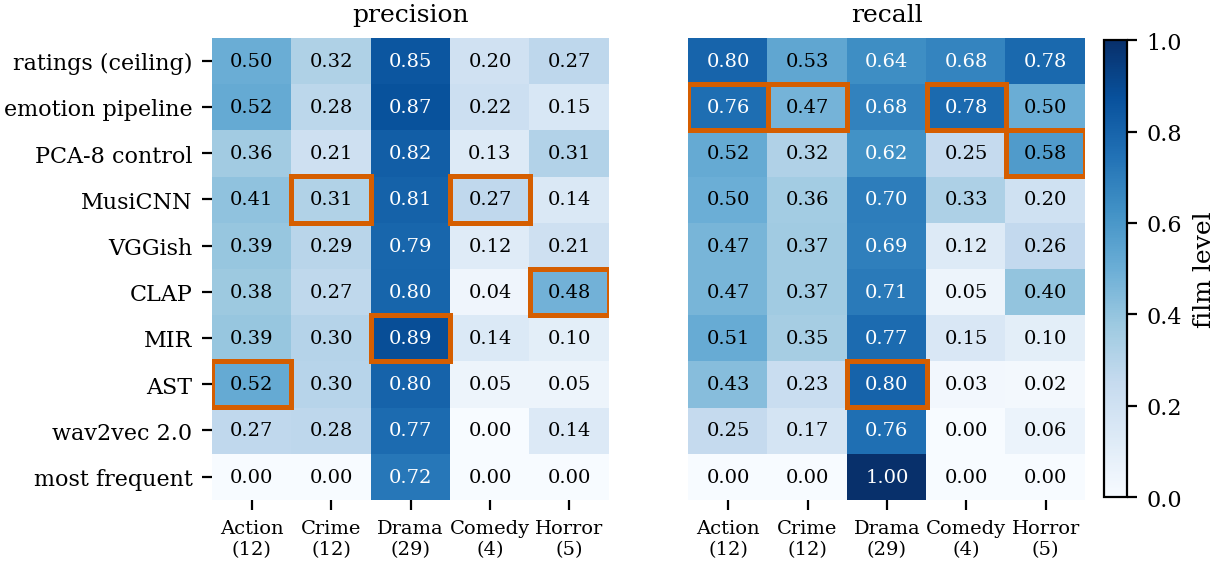
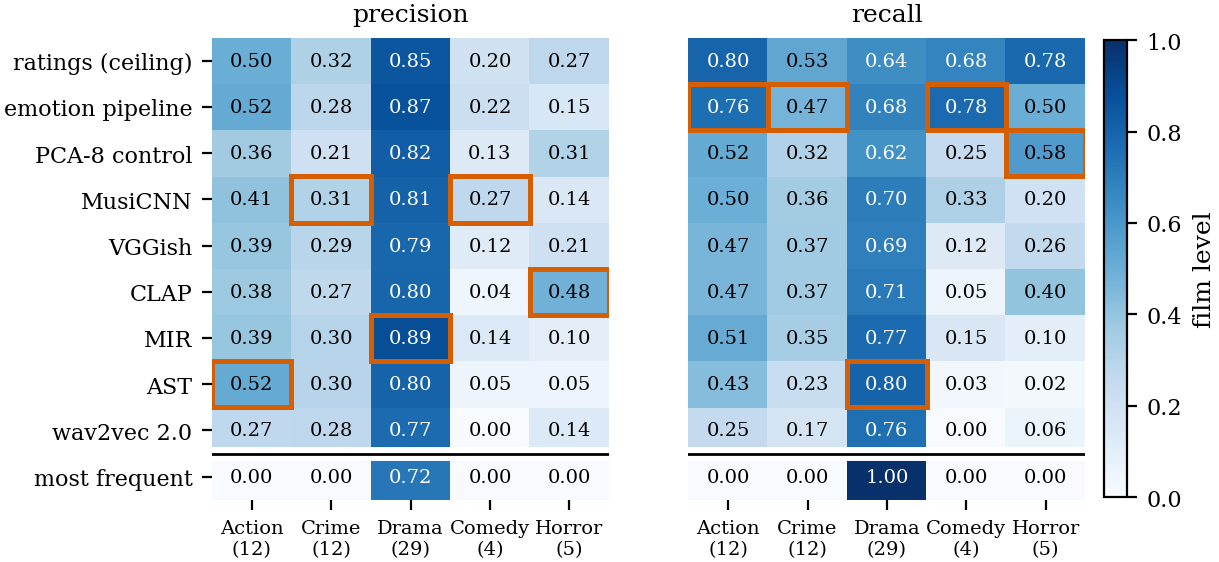
Comments of _thesis_14.11.pdf: Figure 5.3 on a text page, most-frequent baseline set apart in Figures 5.4/5.5, ML-kNN in the abbreviations (Overleaf 51eb72c, 7ba16db)

Changed region(s): [[0.1559, 0.7865, 0.4988, 0.847], [0.5611, 0.7865, 0.8728, 0.847]]

diff --git a/experiments/make_figures.py b/experiments/make_figures.py
@@ -299,6 +299,10 @@ def _genre_heatmap(ax, b, key, xlabels):
         for i in range(M.shape[0]):
             ax.text(j, i, f"{M[i, j]:.2f}", ha="center", va="center", fontsize=7,
                     color="white" if M[i, j] > 0.6 else "black")
+    # a gap and a line set the most-frequent baseline apart from the pipelines (author, 15 Nov)
+    dummy = [k for k, _ in rows].index("dummy")
+    ax.axhline(dummy - 0.5, color="white", lw=5)
+    ax.axhline(dummy - 0.5, color="black", lw=1.0)
     ax.set_xticks(range(len(b["genres"])), xlabels)
     ax.set_yticks(range(len(rows)), [lab for _, lab in rows])
     ax.spines[:].set_visible(False)
@@ -390,7 +394,7 @@ def fig_emotion_grid():
     R2 = np.array([[d["stage1_all_clips"]["mean_r2"][r][g] for g in regs] for r in reps])
     # Two different measures, so two different palettes and colour bars (author, 15 Nov):
     # (a) genre macro-F1 in blue, (b) Stage-1 emotion R^2 in purple, set well apart.
-    fig, axes = plt.subplots(1, 2, figsize=(WIDTH, 4.1),
+    fig, axes = plt.subplots(1, 2, figsize=(WIDTH, 3.8),
                              gridspec_kw={"width_ratios": [5, 2.4], "wspace": 0.22})
     for ax, M, vmin, vmax, labels, title, cmap, clabel in (
             (axes[0], F, 0.2, 0.55, ["direct"] + [f"emotion,\n{g}" for g in regs],

diff --git a/docs/latex/chapters/3_evaluation.tex b/docs/latex/chapters/3_evaluation.tex
@@ -216,10 +216,10 @@ regressors: the random forest, ridge regression and SVR (Section~\ref{sec:method
 Every entry of Figure~\ref{fig:emotion_grid} is the complete pipeline, with the same
 classifier, folds and scoring as above.
 
-\begin{figure}[tbp]
+\begin{figure}[!htb]
   \centering
   \includegraphics[width=\textwidth]{figures/emotion_pipeline_grid.pdf}
-  \caption{The emotion pipeline for every representation and emotion regressor (five genres, 40 films).}
+  \caption{The emotion pipeline for every representation and emotion regressor.}
   \label{fig:emotion_grid}
 \end{figure}
 

diff --git a/docs/README.md b/docs/README.md
@@ -2332,3 +2332,11 @@ ran into the left panel; the gap between the panels is wider now (Overleaf `69bd
 used one blue scale for two different measures; panel (a), genre macro-F1, stays blue, panel (b),
 the Stage-1 R^2 of the emotion regressors, is purple, each has its own colour bar, and the
 legend text names the panels (Overleaf `20f5674`). Compiled in Chrome: 0 errors, 103 pages.
+
+Comments on `_thesis_14.11.pdf` (Drive, six comments; 15 Nov): Figure 5.3 no longer stands alone on
+a float page (placement `!htb`, figure 3.8 in tall, caption on one line); Figures 5.4 and 5.5 set the
+most-frequent baseline apart with a gap and a line; the abbreviation list says ML-kNN, the form
+used in Section 3.3.3, where LSTM and ML-SMOTE are used as well (the author asked where they
+occur). Three comments ask to remove parts of the AI declaration; they are open with the author,
+because Faculty Council decision 019/25 requires the AI-drafted parts to be named. Overleaf
+`51eb72c`, `7ba16db`, compiled in Chrome: 0 errors, 103 pages.
